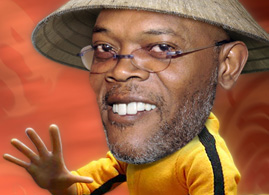
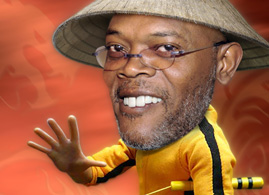
Small changes, new images

diff --git a/pp/css/style.css b/pp/css/style.css
@@ -59,13 +59,14 @@ body {
 #headerContainer {
 	height: 370px;
 	width: 100%;
-	background: #183e76 url("../images/header.png") no-repeat;
+	background: #183e76 url("../images/header.jpg") no-repeat;
 	background-position: center -0px;
 }
 
 #characterContainer {
-	margin: auto;
-	width: 1000px;
+	height: 370px;
+	/*background: url("../images/header2.png") no-repeat;*/
+	/*background-position: -173px -70px;*/
 }
 
 #character1 {

diff --git a/pp/index.php b/pp/index.php
@@ -31,15 +31,16 @@ $pg = (isset($_GET['pg']))?$_GET['pg']:'home';
 		</div>
 	</div>
 	<div id="headerContainer">
-		<div id="characterContainer">
-			<div id="character1">
-				<img src="images/opra.png">
-			</div>
-			<div id="character2">
-				<img src="images/ashton.png">
-			</div>
-			<div class="clear"></div>
-		</div>
+		<div id="characterContainer"><img src="images/header2.png"></div>
+<!--		<div id="characterContainer">-->
+<!--			<div id="character1">-->
+<!--				<img src="images/opra.png">-->
+<!--			</div>-->
+<!--			<div id="character2">-->
+<!--				<img src="images/ashton.png">-->
+<!--			</div>-->
+<!--			<div class="clear"></div>-->
+<!--		</div>-->
 	</div>
 	<div id="main">
 		<? include($pg.'.php'); ?>

diff --git a/pp/galleryDetails.php b/pp/galleryDetails.php
@@ -59,7 +59,7 @@ $(document).ready(function() {
 	<div id="galleryDetailsContainer">
 		<div id="celebrity"><?= mb_strtoupper($name) ?></div>
 		<div id="title"><?= ucfirst($title) ?></div>
-		<div id="text"><?= $story ?></div>
+		<div id="text"><br><?= $story ?></div>
 		<div class="galleryIsprekidane"></div>
 		<div id="details">
 			<span class="span1">NAME:</span> <span class="span2"><?= $name ?></span><br>
